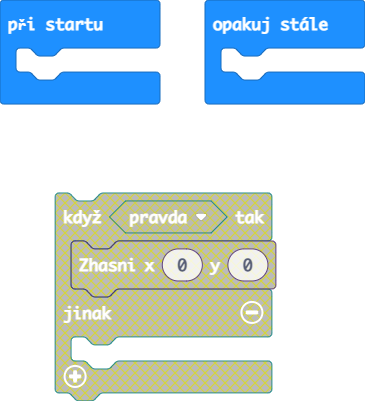
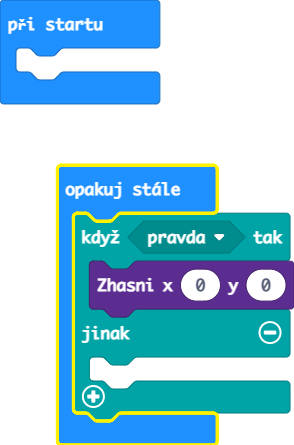
Aktualizovat main.blocks, main.ts

diff --git a/main.ts b/main.ts
@@ -1,3 +1,7 @@
 basic.forever(function () {
-	
+    if (true) {
+        led.unplot(0, 0)
+    } else {
+    	
+    }
 })
